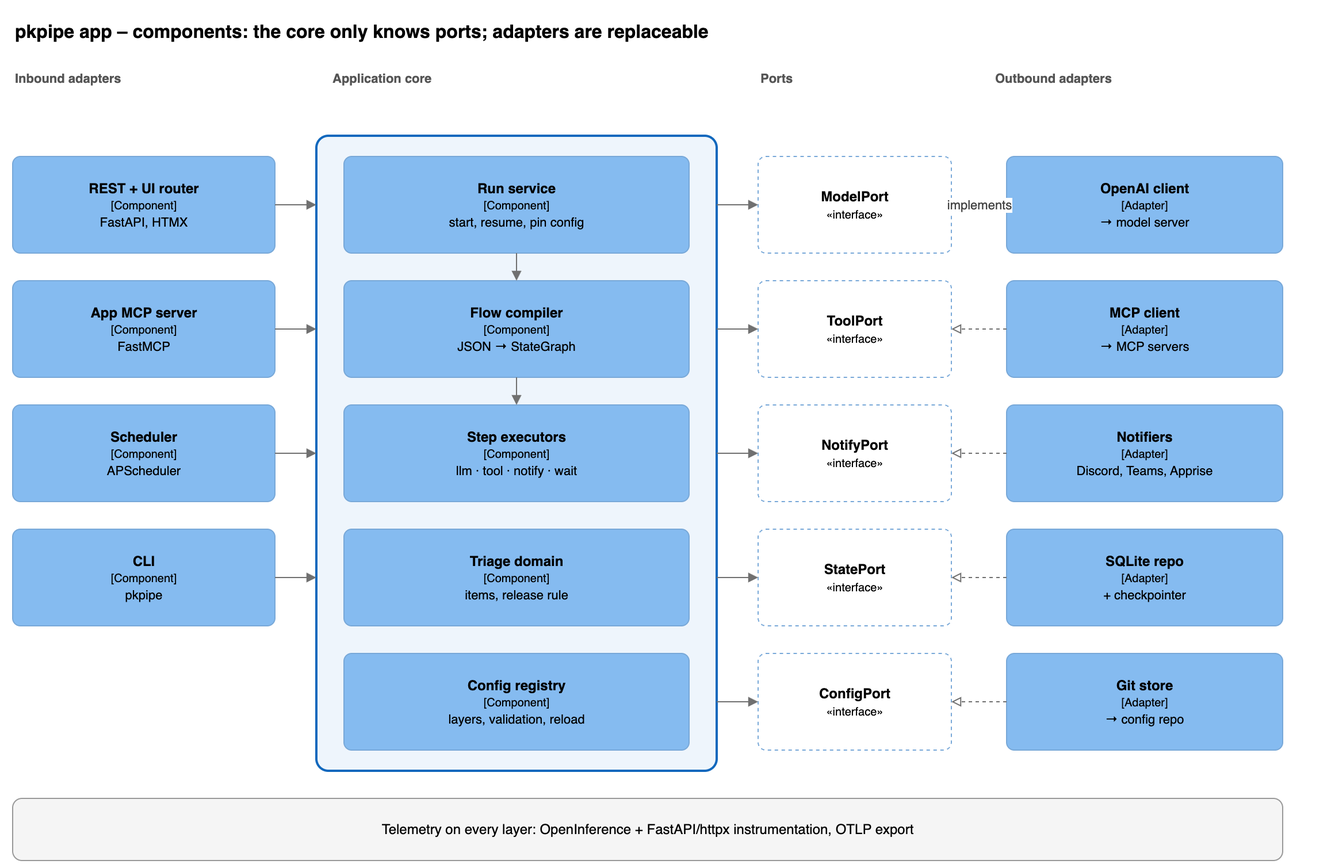
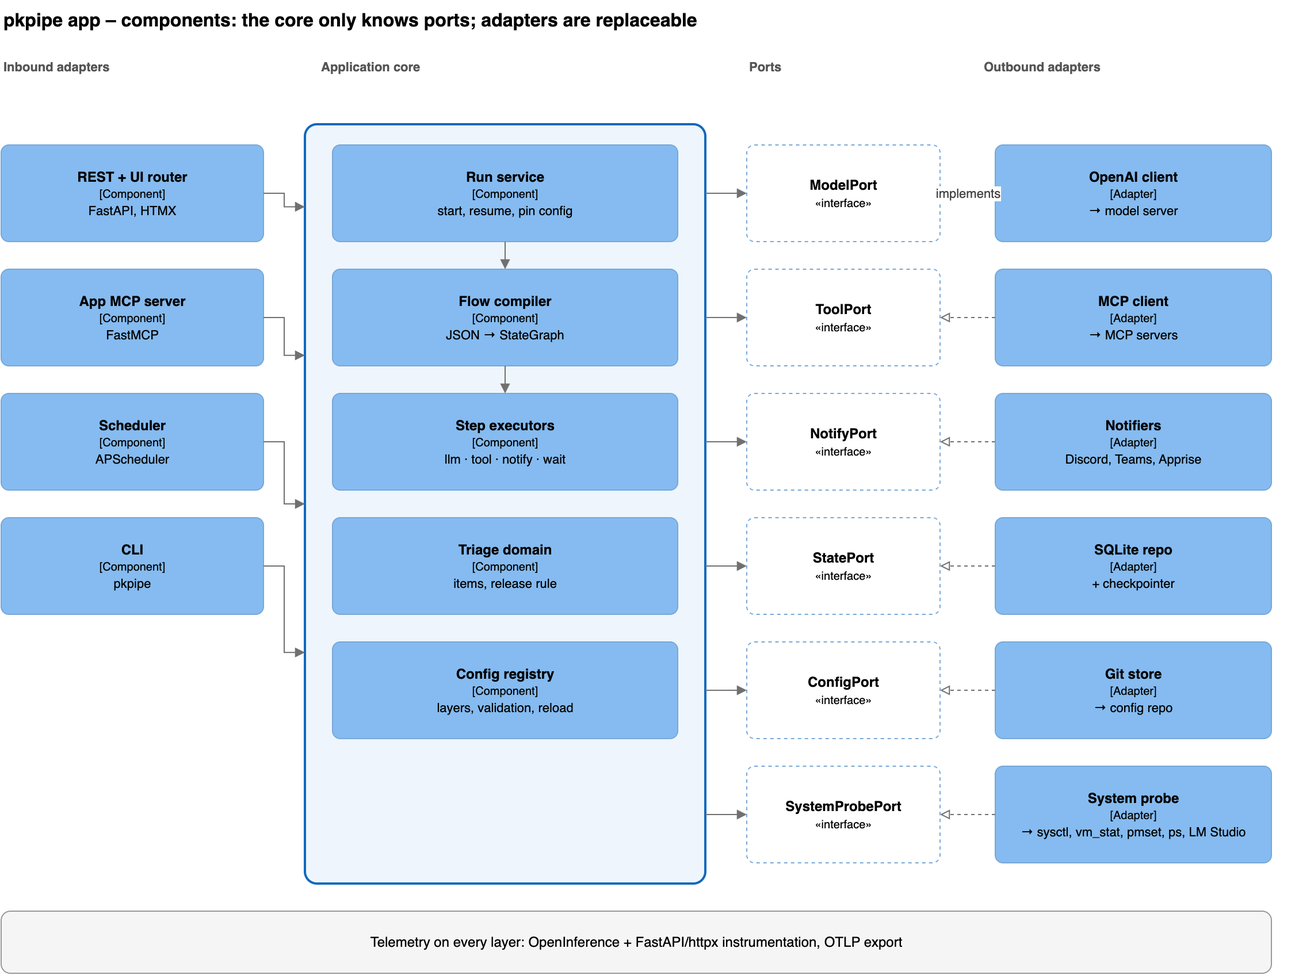
docs: system preflight in operations, configuration, evaluation, tests README and C4 components

diff --git a/docs/operations.md b/docs/operations.md
@@ -42,6 +42,58 @@ The default backend is Open Notebook with Speaches (Kokoro voice): `cd deploy/op
 
 `pkpipe eval --suite <suite|all>` runs the eval suites and exits 1 when a gate is red ([Evaluation](evaluation.md)). Reports (JSON + Markdown) go to `$PKPIPE_DATA_DIR/evals`; every eval span carries `eval.run_id`. CI replays recorded model responses (`--cassette replay`); after a prompt, instruction or model change, re-record them against the real model with `--cassette record --concurrency 4` and commit the changed `evals/cassettes/*.json`. The weekly health check is `pkpipe eval --suite production --db <app DB> --vault <vault>`: it alerts on failed runs, override, quarantine and learning-failure rates above the gates in `evals.json`.
 
+## System preflight
+
+An eval or a live test run drives the local model server hard for up to an hour. On the reference Mac mini (M4, 32 GB unified memory, LM Studio with two models x 4 parallel predictions) the failures were never in pkpipe: swap at 17.55 of 18.43 GB stalled LM Studio for 25 minutes and left eval cases unjudged, and a second client on the same server turned a 40-minute live run into 113 minutes. The system preflight reads the machine before a run and lets code decide how hard to drive the server.
+
+```bash
+uv run pkpipe doctor              # snapshot + decision; exit 1 when blocked
+uv run pkpipe doctor --json       # the same as JSON
+uv run pkpipe doctor --no-llm     # host only, the LLM server is not contacted
+```
+
+| Option | Meaning |
+| --- | --- |
+| `--base-url` | LLM server (default: the `default` model profile) |
+| `--model ID` | Required model (repeatable; default: the model under test and, on the same server, the eval judge from `models.json` / `evals.judge_profile`) |
+| `--max-concurrency N` | Concurrency when everything is ok (default `evals.preflight.max_concurrency`, 4) |
+| `--pack`, `--overlay` | Config layers (thresholds, model profiles) |
+
+Sample output on the reference machine during a busy afternoon (another agent using LM Studio):
+
+```text
+system      darwin-arm64, 10 CPUs
+memory      32.0 GiB total, 9.3 GiB available (29%), pressure normal, compressed 4.4 GiB
+swap        18.8 GiB of 20.0 GiB used (94.2%)
+thermal     nominal
+load        1.90 4.00 6.29 (0.19 per CPU)
+top memory  node 914 MiB, ...
+llm server  http://127.0.0.1:1234/v1 reachable [openai, lmstudio-rest, lms]
+  - qwen3.5-9b-mlx (required): loaded, parallel 4, context 32768, status generating, queued 2
+  - google/gemma-4-12b (required): loaded, parallel 4, context 32768, status processingPrompt, queued 0
+
+decision    DEGRADED: eval concurrency 2, timeouts x1.5
+  - [reduce] swap_high: swap 18.8 of 20.0 GiB used (94.2%)
+  - [reduce] llm_busy: 'qwen3.5-9b-mlx' has 2 request(s) queued by other clients
+```
+
+**What is read** (`pkpipe.adapters.system_probe`, behind `SystemProbePort`; no sudo, well under a second, no extra dependency): one `sysctl` call (`hw.memsize`, `hw.ncpu`, `vm.loadavg`, `vm.swapusage`, `kern.memorystatus_vm_pressure_level` = the kernel's normal / warn / critical, `kern.memorystatus_level` = the free percentage `memory_pressure -Q` prints), `vm_stat` (free and compressed pages), `pmset -g therm` (CPU speed limit, a recorded thermal warning), `NSProcessInfo.thermalState` (nominal / fair / serious / critical, read through the Objective-C runtime with ctypes), `ps -axco rss=,comm=` (the five largest memory users by executable *name*: never paths, arguments or user data), and the LLM server: `/v1/models` (served models; any OpenAI-compatible server), LM Studio's `/api/v0/models` (loaded state, context) and, for a local server, `lms ps --json` (parallel predictions, status, queued requests). This works the same for the LM Studio app and the headless `llmster` daemon (`lms daemon up` + `lms server start`); a server that is briefly away (switching between the two, a restart) is retried twice, 2 s apart. On Linux the probe reads `/proc/meminfo`, `/proc/loadavg` and `ps` only (no pressure level, no thermal state). A reading that fails is listed under `not read` and never fails the command.
+
+**How it decides** (`pkpipe.domain.system.decide`, pure code, thresholds in `evals.json` → `preflight`, [configuration](configuration.md#system-preflight)). Each rule that fires adds a reason with a severity; the worst severity wins:
+
+| Severity | Effect | Fired by (defaults) |
+| --- | --- | --- |
+| `block` | `blocked`, concurrency 0, exit 1 | memory pressure `critical`; under 3% memory available; thermal state `critical`; LLM server unreachable; a required model not served or not loaded |
+| `minimal` | `degraded`, concurrency 1, timeouts x2 | swap ≥ 95%; swap ≥ 80% *and* memory pressure ≥ warn; thermal state `serious`; CPU speed limited (< 100%); load ≥ 3.0 per CPU |
+| `reduce` | `degraded`, concurrency 2, timeouts x1.5 | memory pressure `warn`; under 10% available; swap ≥ 80%; thermal state `fair` or a recorded thermal warning; load ≥ 1.5 per CPU; another client has a request queued on a required model |
+| `info` | concurrency capped, status unchanged | the server runs fewer parallel predictions than the ceiling |
+
+`ok` keeps the ceiling (4 for live tests; `evals.concurrency` for `pkpipe eval`) and timeouts x1. Reasons carry a scope: `system` (memory, swap, thermal, load) or `llm` (server, models). The timeout multiplier scales every model profile's `timeout_s` (`PKPIPE_MODEL_TIMEOUT_MULTIPLIER`, clamped to 1-10, read by the model adapter at call time; the model span records the effective `pkpipe.model.timeout_s`). macOS grows swap in steps, so a high swap percentage with pressure `normal` is a warning sign, not a stall; the stall came with pressure and a nearly full swap together, which is why that combination is `minimal`.
+
+**Where it is used.** `pkpipe eval` without `--concurrency` runs the preflight before suites that call a model (not in `--cassette replay`, not for code-only suites; `--no-preflight` skips it): the decision can only lower `evals.concurrency` (production default 1 stays 1) and lengthens timeouts; a `system` block refuses the run (exit 1), an `llm` block is printed and left to the suites, which report the unreachable model per case. Live tests run it once per session and keep re-sampling ([tests/README.md](https://github.com/zskreisz01/pkpipe/blob/master/tests/README.md), "How live tests adapt").
+
+**Telemetry.** Every preflight is a `system.preflight` span (`pkpipe.span.kind` = `system`, `system.source` = `preflight` or `sampler`) with the snapshot as attributes: `system.memory.{total_bytes,available_bytes,available_pct,free_bytes,compressed_bytes,pressure}`, `system.swap.{total_bytes,used_bytes,used_pct}`, `system.thermal.{state,cpu_speed_limit,throttled,warning}`, `system.load.{1m,per_cpu}`, `system.cpu.count`, `system.top_processes` (`name=MiB`), `llm.server.{url,reachable,sources,models_loaded,models}`, and the decision: `system.decision`, `system.eval_concurrency`, `system.timeout_multiplier`, `system.reasons` (`severity:code`). Gauges of the latest sample (attribute `source`): `pkpipe.system.memory_pressure` (0 normal, 1 warn, 2 critical, -1 unknown), `pkpipe.system.memory_available_ratio`, `pkpipe.system.swap_used_bytes`, `pkpipe.system.thermal_level` (0-3, -1 unknown), `pkpipe.system.load_per_cpu`, `pkpipe.system.decision` (0 ok, 1 degraded, 2 blocked), `pkpipe.system.eval_concurrency`. The sampler records the gauges every sample and a span only when the decision changes. Nothing in them is content; process entries are names only.
+
 ## Release ladder
 
 ```mermaid
@@ -54,7 +106,7 @@ Rollback when the override or quarantine rate exceeds twice the weekly average, 
 
 ## Observability
 
-Only OTLP is exported, so the backend is replaceable (Langfuse or Phoenix). Spans carry `flow.id`, `step.id`, `bpmn.element`, `item.id`, `item.category`, `config.version`, `run.trigger`. Metrics: items per category, backlog size, learning generation time and timeout rate, step error rate, tokens per second, flags per detector. Prompt and response capture is configurable and off for private data.
+Only OTLP is exported, so the backend is replaceable (Langfuse or Phoenix). Spans carry `flow.id`, `step.id`, `bpmn.element`, `item.id`, `item.category`, `config.version`, `run.trigger`. Metrics: items per category, backlog size, learning generation time and timeout rate, step error rate, tokens per second, flags per detector, and the system gauges of the [preflight](#system-preflight). Prompt and response capture is configurable and off for private data.
 
 ### Configuring telemetry
 

diff --git a/docs/evaluation.md b/docs/evaluation.md
@@ -55,7 +55,8 @@ uv run pkpipe eval --suite production --db ~/.local/share/pkpipe/pkpipe.db --vau
 | --- | --- |
 | `--suite` | `all` (default), one suite or a comma list: `deterministic`, `triage`, `sessions`, `calibration`, `improvement`, `context_leak`, `flows`, `security`, `production` |
 | `--cassette` | `off` (live model, default), `replay` (only recordings; a missing recording is an error), `record` (call the model, rewrite and prune the cassette), `auto` (replay, record what is missing) |
-| `--concurrency N` | Eval cases in flight at once (model and judge requests; `--workers` is the older spelling). Default `evals.concurrency` in `evals.json`, which defaults to 1. Reports, case order, metrics and recorded cassettes are the same for every N; see [Concurrency](#concurrency) |
+| `--concurrency N` | Eval cases in flight at once (model and judge requests; `--workers` is the older spelling). Default `evals.concurrency` in `evals.json`, which defaults to 1, lowered further by the system preflight on a degraded machine. Reports, case order, metrics and recorded cassettes are the same for every N; see [Concurrency](#concurrency) |
+| `--no-preflight` | Skip the [system preflight](operations.md#system-preflight) (memory, swap, thermal, load, LLM server) that otherwise runs before suites calling a model when `--concurrency` is not given |
 | `--limit N` | First N cases per dataset (smoke run) |
 | `--pack`, `--overlay` | Config layers; `<overlay>/evals/` adds or replaces datasets per path |
 | `--evals-dir`, `--cassette-dir` | Public evals directory (default `evals/` or `PKPIPE_EVALS_DIR`), cassette directory |
@@ -69,7 +70,9 @@ Every run is traced: an `eval run` span, one `eval <suite>` span per suite and o
 
 ## Concurrency
 
-`pkpipe eval --concurrency N` (or `evals.concurrency` in `evals.json`) keeps up to N eval cases in flight: each case's model call and judge call run in a worker thread, and the pairwise A/B comparison of the publish gate runs N cases at once too. Results are collected in dataset order, so the report, the case list, every metric and a recorded cassette (sorted by request key) are the same for every N; cassettes are thread-safe. Production runs default to 1, so a scheduled or UI-triggered eval never competes with pipeline runs for the model; live tests use 4 (`tests.support.live.LIVE_EVAL_CONCURRENCY`).
+`pkpipe eval --concurrency N` (or `evals.concurrency` in `evals.json`) keeps up to N eval cases in flight: each case's model call and judge call run in a worker thread, and the pairwise A/B comparison of the publish gate runs N cases at once too. Results are collected in dataset order, so the report, the case list, every metric and a recorded cassette (sorted by request key) are the same for every N; cassettes are thread-safe. Production runs default to 1, so a scheduled or UI-triggered eval never competes with pipeline runs for the model; live tests use up to 4 (`tests.support.live.LIVE_EVAL_CONCURRENCY`).
+
+**System preflight.** Without `--concurrency`, `pkpipe eval` first reads the machine and the model server (`pkpipe doctor`, [operations](operations.md#system-preflight)) and lets code pick the concurrency and the model timeouts: memory pressure, a nearly full swap, a thermal state above nominal, a high load or another client queued on the model lower the concurrency (never above `evals.concurrency`) and lengthen every profile's `timeout_s` (x1.5 or x2); a critical memory or thermal state refuses the run. Live tests do the same per session with a ceiling of 4 and re-sample every 30 s, so a later eval test runs with fewer requests in flight when the machine degrades mid-run (`live.eval_concurrency()`, tests/README.md). Results do not depend on the concurrency, so this only trades wall time for not stalling the server.
 
 N > 1 only helps when the model server runs predictions in parallel. In LM Studio this is the per-model "parallel" setting; `scripts/lmstudio-test-setup.sh` loads the model under test and the judge together with `--parallel 4` and no idle TTL, so neither is unloaded while the other serves (the "Model unloaded" HTTP 400 seen when LM Studio swaps models under load). `--check` only reports; other loaded models are never touched. Model reasoning stays on.
 
@@ -84,7 +87,7 @@ Parallel predictions raise throughput by about a third on this machine, not by N
 
 The judged sessions suite (all 42 cases, model under test plus the `gemma-4-12b` judge, both loaded by the script) took 722 s with `--concurrency 1` and 520 s with 4 (all 42 judged, judge mean 4.9 in both). The script loads both models with a 32768-token context (the most a `models.json` prompt may use) instead of their 262144-token default; that changed neither speed nor scores (525 s at 262144) but caps the KV caches of two models x 4 slots on a 32 GB machine. The whole live suite (`PKPIPE_REQUIRE_LIVE=1 uv run pytest -q -m live`, LM Studio otherwise idle) took 40 min 29 s with concurrency 4 and shared requests, against 57 min 38 s before (serial, no sharing); the sessions + security test alone went from 1157 s to 585 s.
 
-**Stalls and transient errors.** When LM Studio stalls (seen once under memory pressure with near-full swap and another client using the same model: the judge produced two tokens in 25 minutes, and every request in flight hit its `timeout_s`), a request that times out used to leave its case unjudged at once. The `default` and `judge` profiles of the public pack now retry a transient failure (connection, timeout, 5xx, 408/429, HTTP 400 "Model unloaded") twice with backoff (`retries`, `retry_backoff_s`, [configuration](configuration.md#model-profiles)); a case is unjudged only after that, and the live test names the judge error. A stall longer than the retries is still a failure (fail closed): rerun when LM Studio is idle, and never share it with another heavy client during a live run.
+**Stalls and transient errors.** When LM Studio stalls (seen once under memory pressure with near-full swap and another client using the same model: the judge produced two tokens in 25 minutes, and every request in flight hit its `timeout_s`), a request that times out used to leave its case unjudged at once. The `default` and `judge` profiles of the public pack now retry a transient failure (connection, timeout, 5xx, 408/429, HTTP 400 "Model unloaded") twice with backoff (`retries`, `retry_backoff_s`, [configuration](configuration.md#model-profiles)); a case is unjudged only after that, and the live test names the judge error. A stall longer than the retries is still a failure (fail closed): rerun when LM Studio is idle, and never share it with another heavy client during a live run. The system preflight now sees both causes before and during a run (swap and pressure, requests queued by another client) and drives the server more gently instead.
 
 ## Datasets
 

diff --git a/docs/configuration.md b/docs/configuration.md
@@ -27,7 +27,7 @@ Core defaults (`CORE_DEFAULTS` in `pkpipe.engine.registry`) hold safe security v
 | `security.json` | Guard models and thresholds, canary rotation, URL filter, quarantine dir ([Secure fetch](#secure-fetch)) |
 | `security/deny_list.txt` | Deny-list of the URL filter: one domain per line (subdomains included), `#` comments |
 | `security/query_guard_terms.txt` | Terms no web query may contain (`security.query_guard.terms_file`): one per line, `#` comments; the overlay's copy is maintained by `context_refresh` (names of the enterprise notes are appended, nothing is ever removed) |
-| `evals.json` | Eval gates per suite (`min` / `max` per metric), judge profile, pairwise and calibration limits, `concurrency` (eval requests in flight, default 1; `pkpipe eval --concurrency N` overrides it) ([Evaluation](evaluation.md)). Thresholds only move upwards |
+| `evals.json` | Eval gates per suite (`min` / `max` per metric), judge profile, pairwise and calibration limits, `concurrency` (eval requests in flight, default 1; `pkpipe eval --concurrency N` overrides it), `preflight` (system preflight thresholds, [below](#system-preflight)) ([Evaluation](evaluation.md)). Thresholds only move upwards |
 | `telemetry.json` | Prompt/response content capture per flow (`capture_content.flows`); journal and context flows are always off. Exporters come from `OTEL_*` env ([operations](operations.md)) |
 | `flows/*.json` | Graph: nodes, edges, conditions, subflow calls ([Flows](flows.md)) |
 | `steps/*.json` | Defaults per step type: model profile, output schema, retry |
@@ -105,7 +105,7 @@ Steps name a profile (`default`, `judge`), never an endpoint. The `judge` profil
 | `temperature` | Sampling temperature (0 to 2) | 0.2 |
 | `max_tokens` | Output cap | server default |
 | `context` | Context window in tokens. A prompt that certainly cannot fit (more than 6 characters per token) is refused with `ContextOverflow` before sending; a server-reported overflow raises the same error. Never truncated silently | none |
-| `timeout_s` | Request timeout | 120 |
+| `timeout_s` | Request timeout; scaled by the [system preflight](#system-preflight)'s timeout multiplier (`PKPIPE_MODEL_TIMEOUT_MULTIPLIER`, 1-10) on a degraded machine | 120 |
 | `schema_retries` | Extra attempts after invalid JSON, then `SchemaError` | 1 |
 | `retries` | Extra tries after a transient endpoint failure (connection error, timeout, 5xx, 408/429, LM Studio's HTTP 400 "Model unloaded" while it swaps or loads a model), each recorded as a `model.retry` span event; after the last one the `fallback` profile takes over, else `ModelUnavailable`. Client errors, context overflow and invalid output are never retried this way. The public pack uses 2 | 0 |
 | `retry_backoff_s` | Wait before the first retry, doubled for each next one | 2 |
@@ -115,6 +115,27 @@ Steps name a profile (`default`, `judge`), never an endpoint. The `judge` profil
 `env:NAME` reads an environment variable and fails with a clear error when unset; `env:NAME|other` falls back to `other` (another `env:` reference or a literal). The public pack uses `env:PKPIPE_MODEL_BASE_URL|http://127.0.0.1:1234/v1` and `env:PKPIPE_MODEL_NAME|qwen3.5-9b-mlx`, so LM Studio works out of the box and Ollama is a `models.json` or environment change only.
 
 With a JSON schema the adapter sends `response_format: json_schema`, strips `<think>` blocks (and anything before a lone `</think>`), extracts the first JSON object and validates it locally. When `content` is empty (Qwen on LM Studio puts schema-constrained answers into `reasoning_content`), the reasoning is used only if it is exactly one JSON object; reasoning prose is never mined for drafts. Output cut by `max_tokens` is an error in both JSON and text mode. Every call emits a span (`llm.model_name`, token counts, latency).
+
+## System preflight
+
+`evals.json` → `preflight` holds the thresholds with which code maps a system snapshot (memory, swap, thermal state, load, LLM server) to `ok` / `degraded` / `blocked`, an eval concurrency and a model timeout multiplier (`pkpipe doctor`, [operations](operations.md#system-preflight)). All fields are optional; the defaults suit a 32 GB Apple-silicon machine running two local models.
+
+| Field | Meaning | Default |
+| --- | --- | --- |
+| `enabled` | Run the preflight before model suites of `pkpipe eval` | true |
+| `max_concurrency` | Concurrency when everything is ok (live tests, `pkpipe doctor`); `pkpipe eval` uses `concurrency` instead | 4 |
+| `reduced_concurrency`, `reduced_timeout_multiplier` | Effect of a *reduce* rule | 2, 1.5 |
+| `minimal_timeout_multiplier` | Effect of a *minimal* rule (concurrency 1) and of a block | 2.0 |
+| `memory_pressure_reduce`, `memory_pressure_block` | Kernel pressure level (`warn`, `critical`) that reduces / blocks; `null` never blocks | `warn`, `critical` |
+| `available_memory_reduce_pct`, `available_memory_block_pct` | Available memory below this percent of total reduces / blocks | 10, 3 |
+| `swap_reduce_pct`, `swap_minimal_pct` | Swap used at or above this percent reduces / sets concurrency 1 (reduce becomes minimal under memory pressure) | 80, 95 |
+| `load_per_cpu_reduce`, `load_per_cpu_minimal` | 1-minute load average per CPU | 1.5, 3.0 |
+| `thermal_reduce`, `thermal_minimal`, `thermal_block` | Thermal state (`nominal`, `fair`, `serious`, `critical`) that reduces / sets 1 / blocks; a CPU speed limit below 100% is always minimal | `fair`, `serious`, `critical` |
+| `llm_busy_queued` | Requests queued by *other* clients on a required model that reduce | 1 |
+| `require_loaded_models` | Block when the server reports a required model as not loaded (false: let a JIT load happen) | true |
+| `sample_interval_s` | Period of the live-test sampler (`PKPIPE_LIVE_SAMPLE_S` overrides it) | 30 |
+
+Inverted pairs (a block threshold milder than its reduce threshold) are rejected by `pkpipe validate`. These are operational limits, not eval gates: they may move both ways.
 
 ## Learning gateway
 

diff --git a/CHANGELOG.md b/CHANGELOG.md
@@ -24,3 +24,4 @@
 - Repository skeleton, ports, triage domain rules, canary helper, layered config loader.
 - Test speed (chore): the non-live suite runs in parallel with pytest-xdist (`uv run pytest -n auto -m 'not live'`, about 40 s instead of 2.5 min; per-worker data dirs and port blocks, live tests refused in xdist workers); eval request concurrency (`evals.concurrency`, `pkpipe eval --concurrency N`, default 1, live tests 4; dataset-order results, thread-safe cassettes, concurrent pairwise A/B); live eval tests share identical requests through a session cassette (`live_eval_cassettes`, auto mode), cutting the live eval tests from 53 to 36 minutes; `scripts/lmstudio-test-setup.sh` keeps model and judge loaded with no TTL and 4 parallel predictions.
 - Test speed follow-up: unjudged live eval cases (10 of 42 judged) came from an LM Studio stall (judge produced 2 tokens in 25 min under memory pressure and a second client), each in-flight request timing out once with no retry. Model profiles get `retries` / `retry_backoff_s` (transient failures: connection, timeout, 5xx, 408/429, HTTP 400 "Model unloaded"; `model.retry` span events; the public pack retries twice), the live sessions test names its judge error, and `scripts/lmstudio-test-setup.sh` loads both models with a 32768-token context (`PKPIPE_LMSTUDIO_CONTEXT`).
+- System preflight (chore): `SystemProbePort` with a macOS adapter (one `sysctl` call for memory, swap, load and the kernel's memory pressure; `vm_stat`, `pmset -g therm`, `NSProcessInfo.thermalState` via ctypes, top memory users by process name via `ps -c`; LM Studio app or llmster daemon through `/v1/models`, `/api/v0/models` and `lms ps --json` with retries) and a minimal Linux one, plus a fake; a pure policy (`pkpipe.domain.system.decide`, thresholds in `evals.json` → `preflight`) mapping a snapshot to ok / degraded / blocked, eval concurrency 4/2/1 and a model timeout multiplier with reasons; `pkpipe doctor [--json]` (exit 1 when blocked); `pkpipe eval` without `--concurrency` runs it before model suites (only lowers `evals.concurrency`, refuses on a critical system state, `--no-preflight`); model timeouts scale with `PKPIPE_MODEL_TIMEOUT_MULTIPLIER`; live tests run it once per session and re-sample every 30 s in a background thread (`live.eval_concurrency()`, scaled timeouts, skip/fail on a system block, terminal summary of swap range, thermal events and concurrency changes); `system.preflight` spans and `pkpipe.system.*` gauges.

diff --git a/docs/architecture.md b/docs/architecture.md
@@ -122,12 +122,13 @@ C4Component
         Component(steps, "Step executors", "core", "llm, llm_tools, tool, code, notify, wait, subflow")
         Component(triage, "Triage domain", "core", "Item states, release rule")
         Component(reg, "Config registry", "core", "Layers, validation, hot reload")
-        Component(ports, "Ports", "Protocols", "ModelPort, ToolPort, NotifyPort, StatePort, ConfigPort")
+        Component(ports, "Ports", "Protocols", "ModelPort, ToolPort, NotifyPort, StatePort, ConfigPort, SystemProbePort")
         Component(aopenai, "OpenAI client", "adapter", "ModelPort")
         Component(amcp, "MCP client", "adapter", "ToolPort")
         Component(anotify, "Notifiers", "adapter", "NotifyPort: Discord, Teams, Apprise")
         Component(asqlite, "SQLite repo", "adapter", "StatePort + checkpointer")
         Component(agit, "Git store", "adapter", "ConfigPort")
+        Component(aprobe, "System probe", "adapter", "SystemProbePort: sysctl, vm_stat, pmset, ps, LM Studio")
     }
     Rel(rest, run, "calls")
     Rel(appmcp, run, "calls")
@@ -144,6 +145,7 @@ C4Component
     Rel(anotify, ports, "implements")
     Rel(asqlite, ports, "implements")
     Rel(agit, ports, "implements")
+    Rel(aprobe, ports, "implements")
 ```
 
 Dependencies point inwards: inbound adapters call the core, the core knows only the ports, outbound adapters implement the ports.
@@ -163,6 +165,9 @@ Dependencies point inwards: inbound adapters call the core, the core knows only 
 | Notifiers | `pkpipe.adapters.notify_*` | `httpx`, `apprise` | New channel = new adapter |
 | SQLite repo | `pkpipe.adapters.state_sqlite` | `langgraph-checkpoint-sqlite` | Can move to Postgres |
 | Tracer | `pkpipe.adapters.tracer_otel` | `pkpipe.telemetry` (OpenTelemetry) | TracerPort; the core never imports OpenTelemetry |
+| System preflight policy | `pkpipe.domain.system` | Nothing (pure Python, `evals.preflight` thresholds) | – |
+| System probe | `pkpipe.adapters.system_probe` | `sysctl`, `vm_stat`, `pmset`, `ps`, `/proc`, LM Studio REST / `lms` | SystemProbePort; another OS = another probe |
+| System preflight service | `pkpipe.system` | SystemProbePort, `pkpipe.telemetry` | `pkpipe doctor`, `pkpipe eval`, live-test sampler |
 | Composition root | `pkpipe.app` | All adapters | Chooses the adapter per port |
 | Git store | `pkpipe.adapters.config_git` | `git` | Can move to plain files |
 
